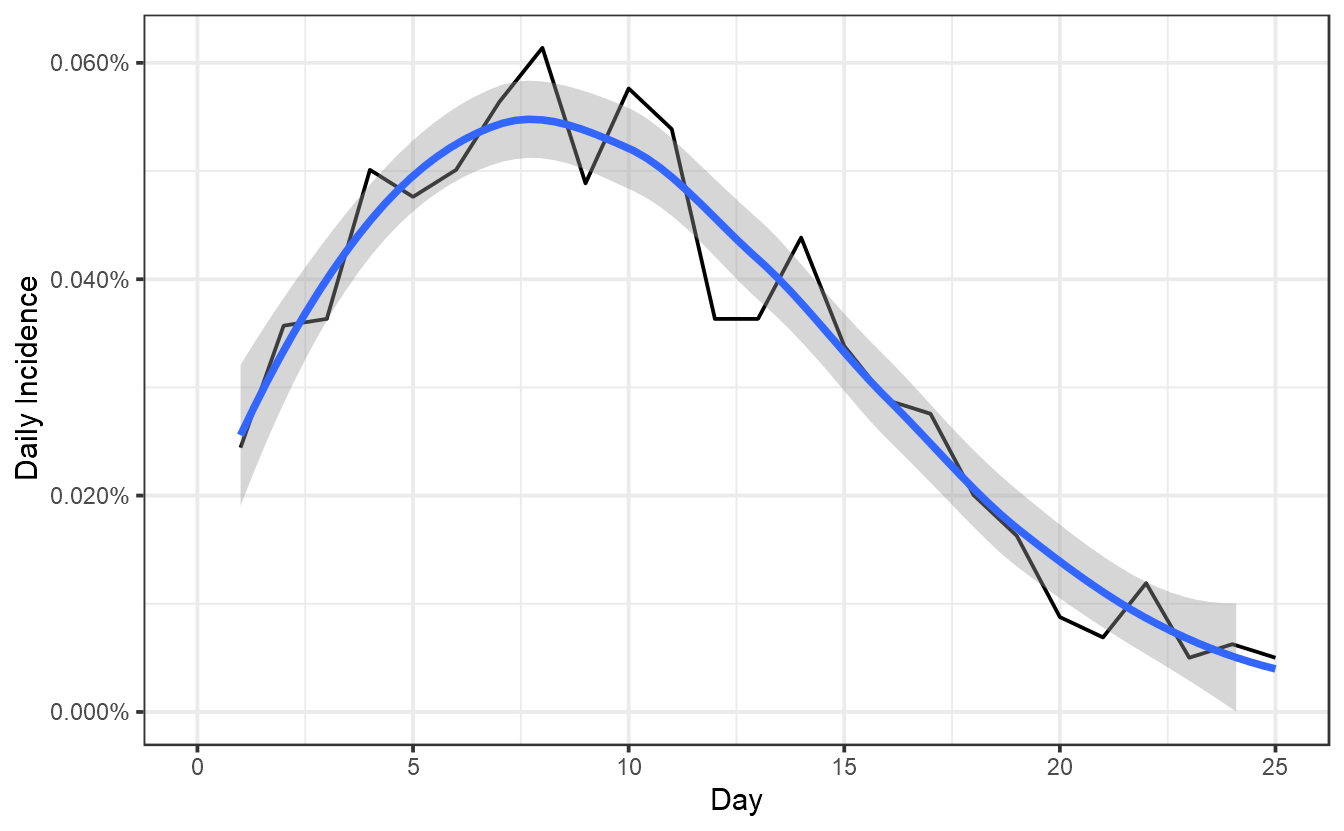
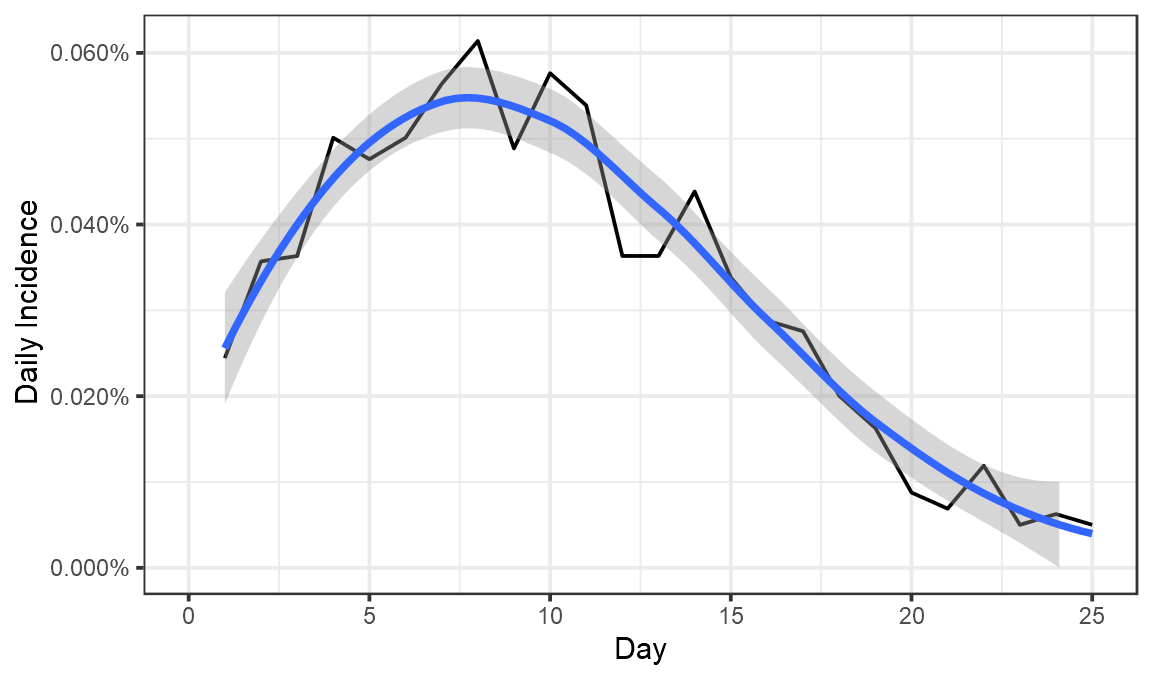
updates

Changed region(s): [[0.0, 0.0, 1.0, 0.9265], [0.5312, 0.9265, 0.5938, 0.9882]]

diff --git a/content/post/2021-01-31-maccabi-2/index.md b/content/post/2021-01-31-maccabi-2/index.md
@@ -11,8 +11,11 @@ featured: false
 draft: false
 projects: []
 mininote: true
-output:  hugodown::md_document  
-rmd_hash: 4738dfb6f975e480
+output: 
+  hugodown::md_document:
+    fig_width: 6 
+    fig_asp: 0.59
+rmd_hash: 5bca94137139934a
 
 ---
 
